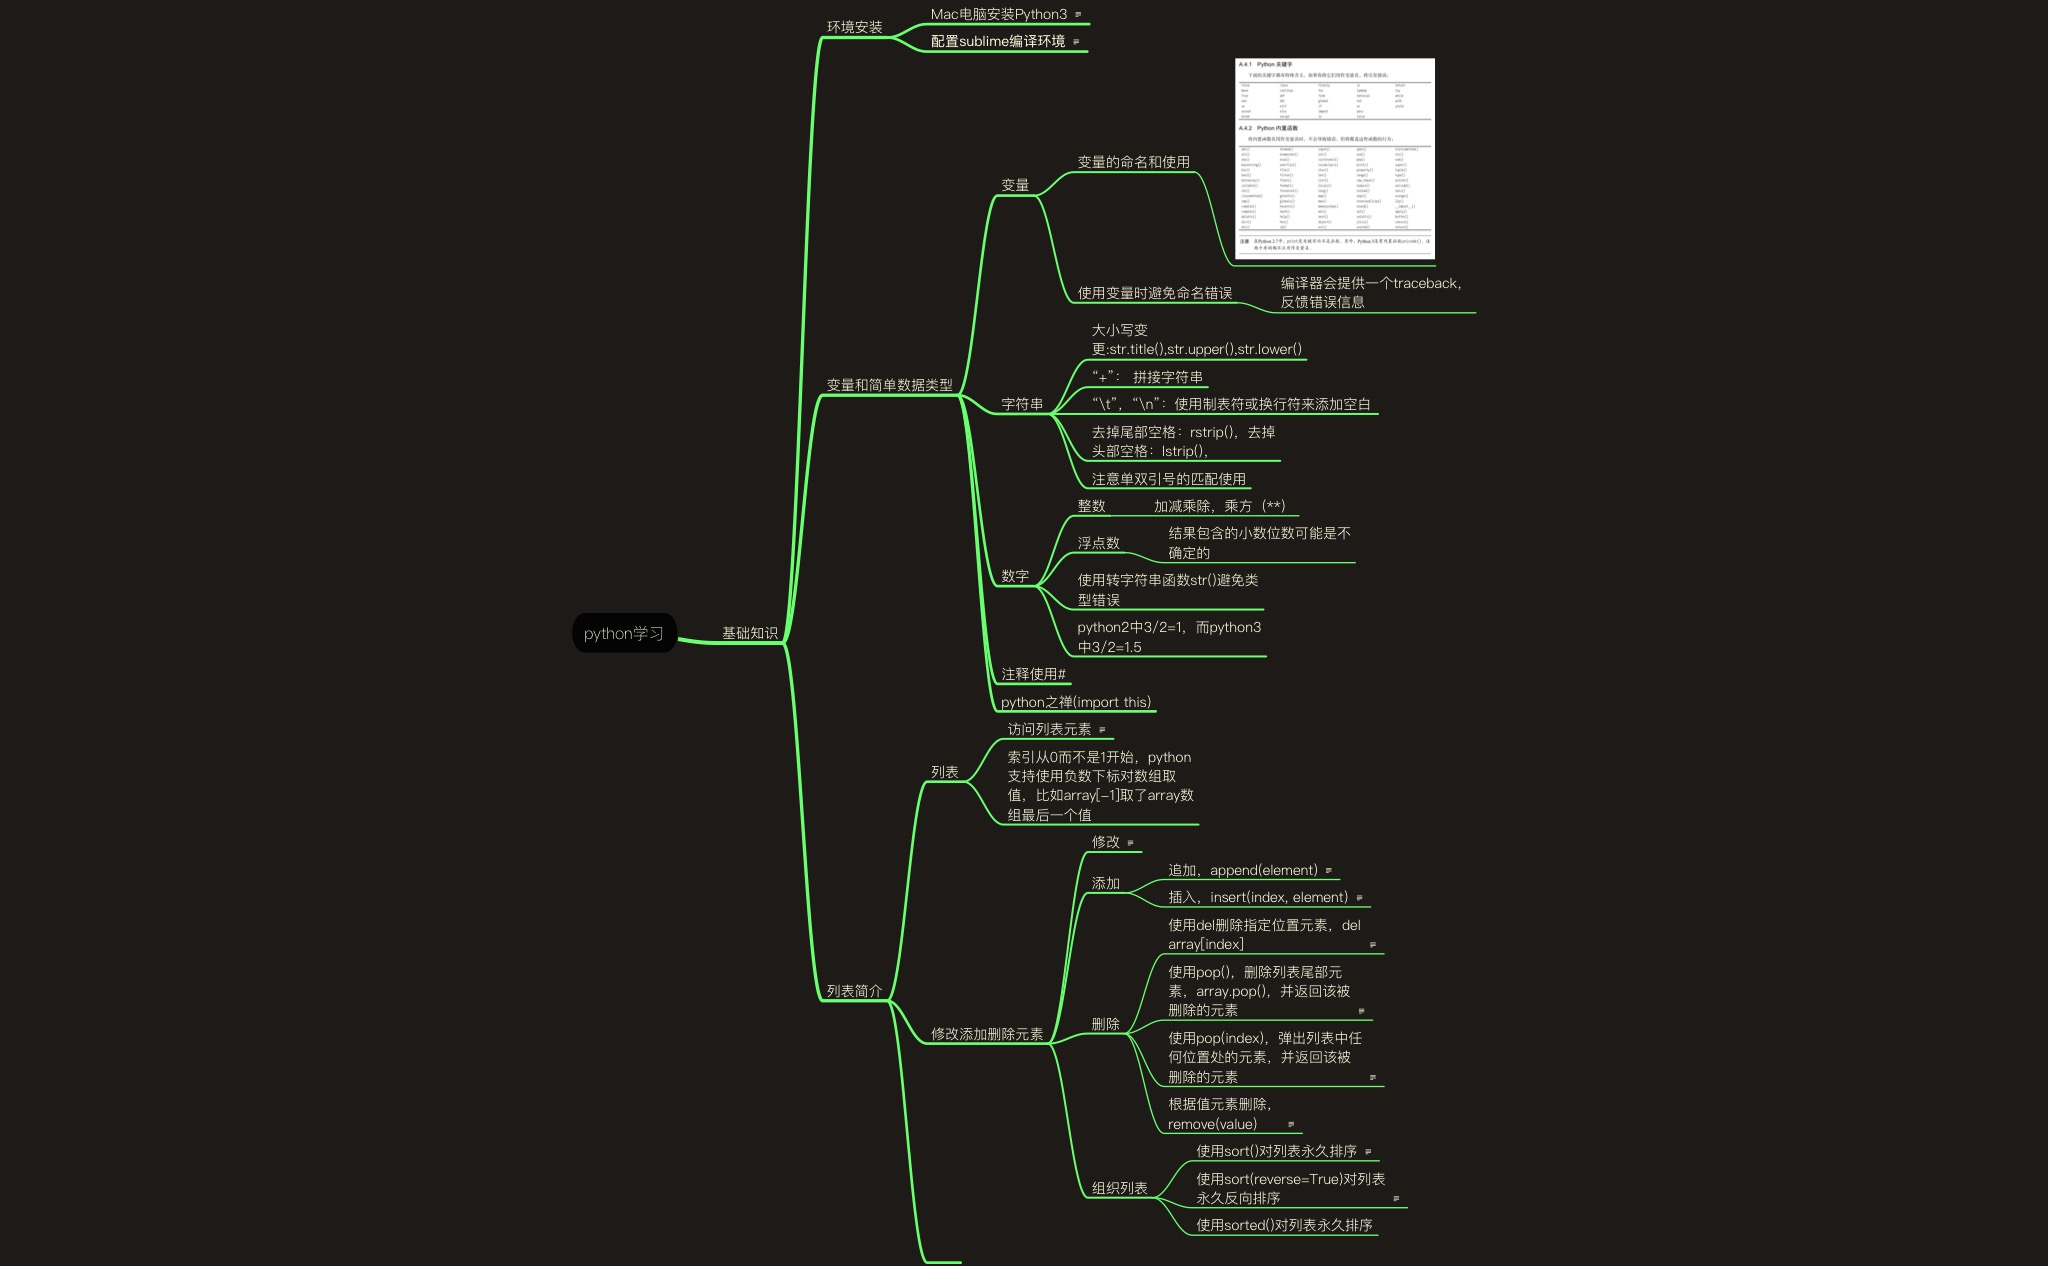
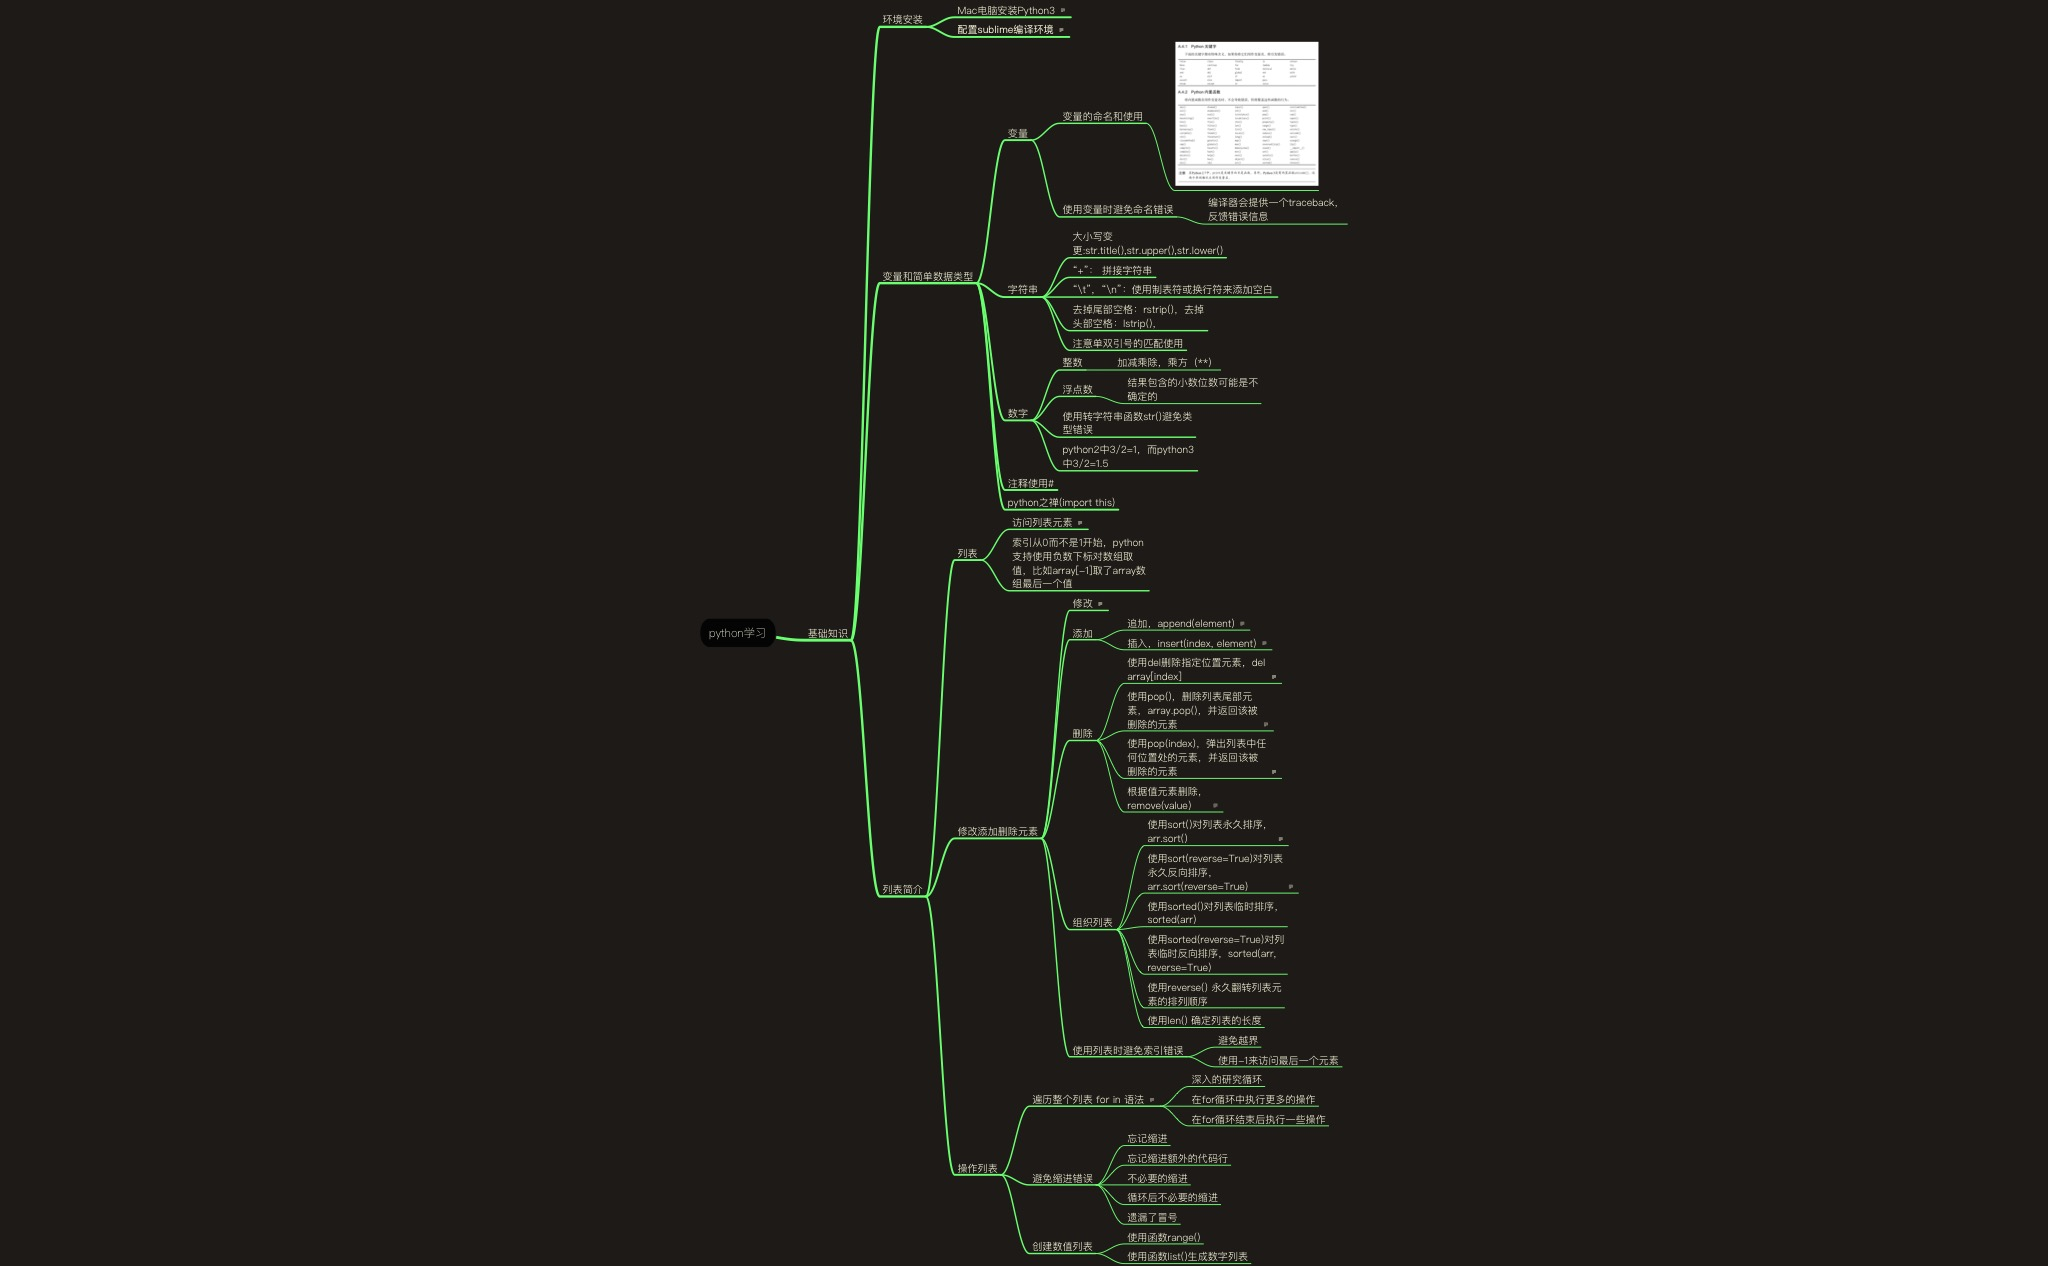
add example

diff --git a/study/3.2.py b/study/3.2.py
@@ -1,6 +1,7 @@
 #3-4
 names = ["Jay", "Tom", "Adel"];
 print(names)
+print(len(names))
 
 #3-5
 sickOne = "Tom";
@@ -26,10 +27,12 @@ print(names);
 
 #3-7
 print("But something is EMERGCY, Three people can come!!!")
+print(len(names))
 names.pop();
 names.pop();
 names.pop();
 names.pop();
+print(len(names))
 print(names);
 print(names[0] + "is lucky!")
 print(names[1] + "is lucky!")

diff --git a/study/3.3.py b/study/3.3.py
@@ -1,0 +1,17 @@
+#3-8
+place = ["London", "NewYork", "Los Angel", "Paris", "Beijing"];
+print(place)
+print(sorted(place))
+print(place)
+print(sorted(place, reverse=True))
+print(place)
+place.reverse()
+print(place)
+place.reverse()
+print(place)
+place.sort()
+print(place)
+place.sort(reverse=True)
+
+#3-9
+#3-10
